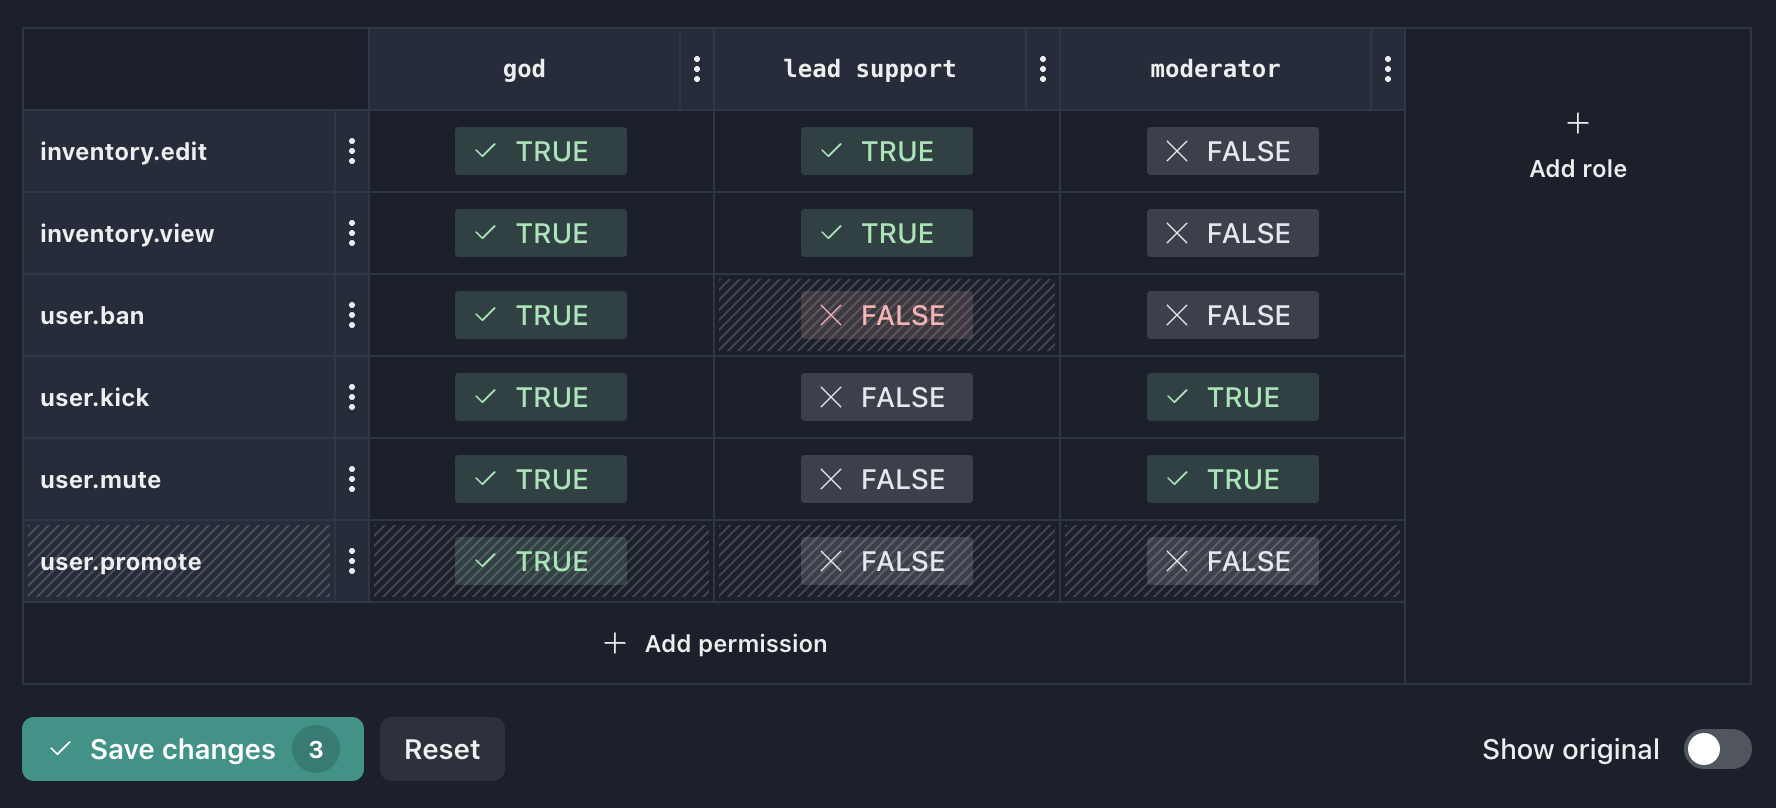
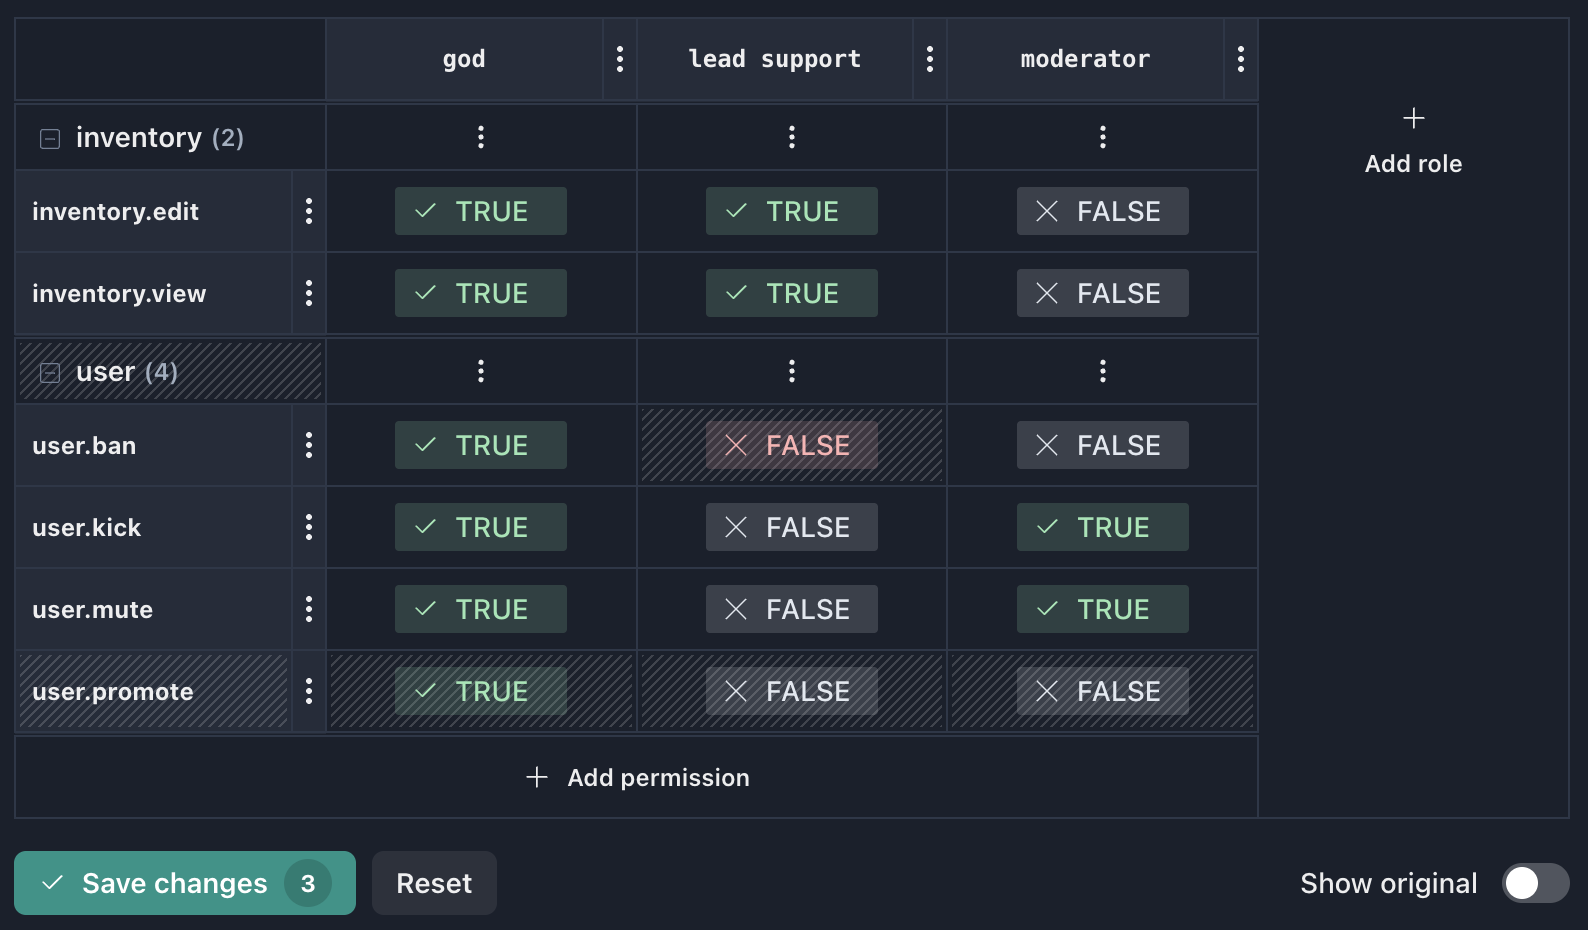
Added Grouping permissions section

diff --git a/docs/central/application-schema.md b/docs/central/application-schema.md
@@ -18,7 +18,7 @@ To create a new permission, click the **Add permission** button at the bottom ro
 
 In the modal window that opens, there is the following form:
 
-- **Name** _(required)_ – application-wide unique permission key
+- **Name** _(required)_ – application-wide unique permission key. You can name permissions any way you like, but for large schemas we recommend using prefixes in the name (e.g. `user.login`) for convenient [grouping of permissions](#grouping-permissions).
 - **Description** – a text field describing the purpose of the permission
 - **Default value** – `TRUE` or `FALSE`
 
@@ -57,6 +57,18 @@ The **Save changes** button displays an edit counter, and the changed fields are
 After clicking on the **Save changes** button, an overview of the changes (added, deleted, changed roles and/or permissions, updated values) will be shown. The **Apply** button will save these changes to the server.
 
 ![Creating a role](./assets/app-schema-changes.png)
+
+### Grouping permissions
+
+For large schema applications, Central provides convenient permission grouping functionality. In order to combine a set of permissions into a logical group, you have the ability to specify a permission name in the format `<group>.<permission>`. For example, the schema may have permissions named `inventory.edit` and `inventory.view`, which will automatically be grouped into the `inventory` group. You can use any level of nesting in the name, but grouping will be by prefix up to the first dot. Each group can be collapsed or expanded in the user interface as desired, and edits can be made to the schema for the entire group at once.
+
+![Permission group actions](./assets/app-schema-group.png)
+
+It is important to note that the use of a dot in the name of permissions does not impose any additional functionality, but is only used for convenient structuring of the schema.
+
+:::caution
+If you group permissions using a dot, you cannot use the prefix as the name of an individual permission. For example, you cannot use `inventory` and `inventory.edit` permissions in the schema at the same time. This applies to permissions of any nesting level.
+:::
 
 ## Export/Import schema {#export-import-schema}
 

diff --git a/docs/central/project.md b/docs/central/project.md
@@ -20,6 +20,8 @@ In order to create a new project in Central, it's required an enabled two-factor
 
 :::
 
+---
+
 To register new project press the **Create new project** button on **Start page** or press the same button in [Start menu](getting-started.md#start-menu).
 
 ![Creating a new project](./assets/project-new.png)
